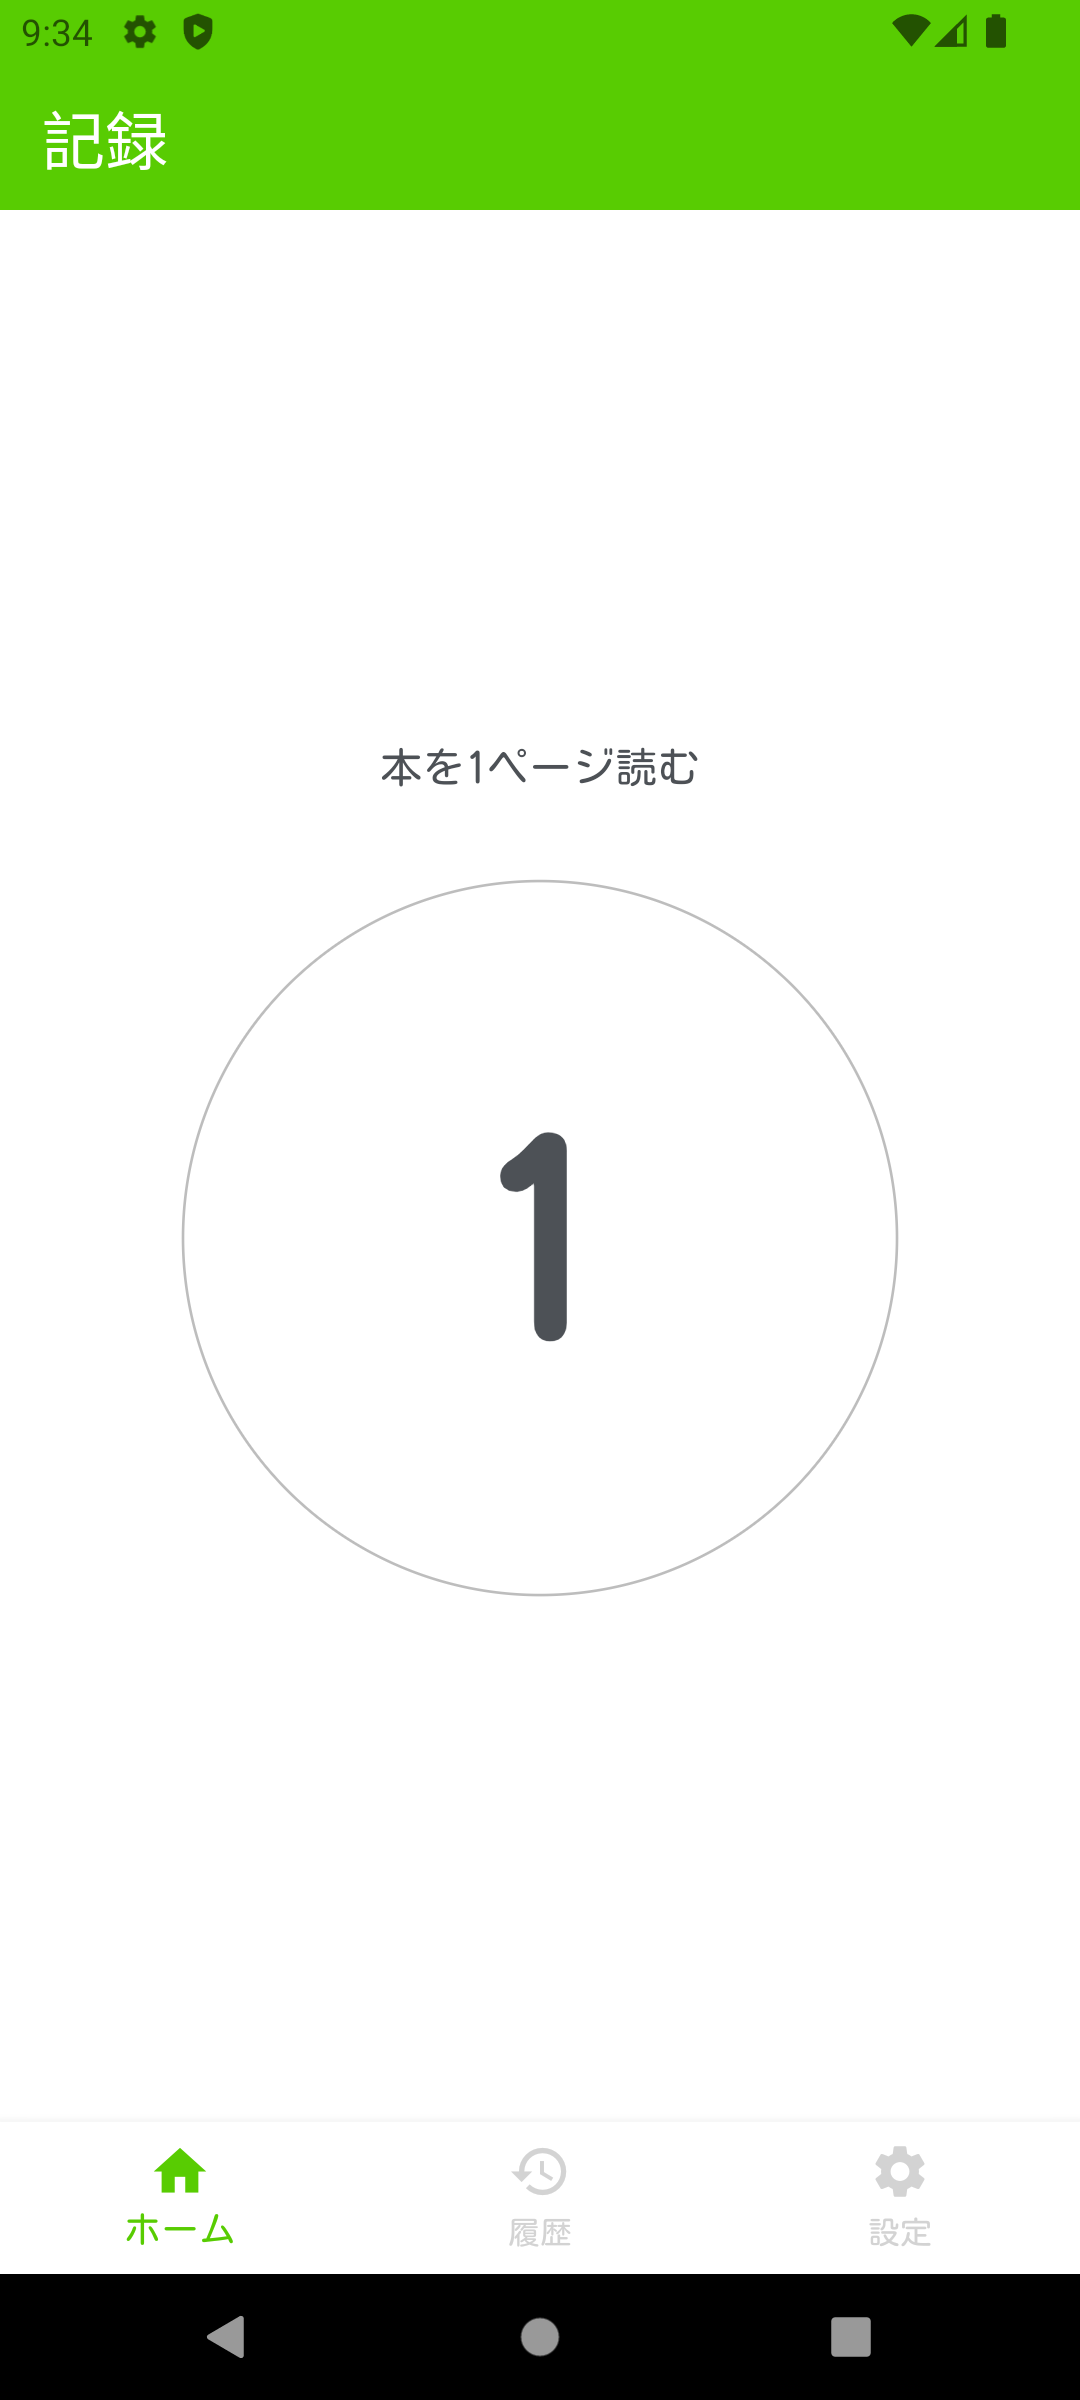
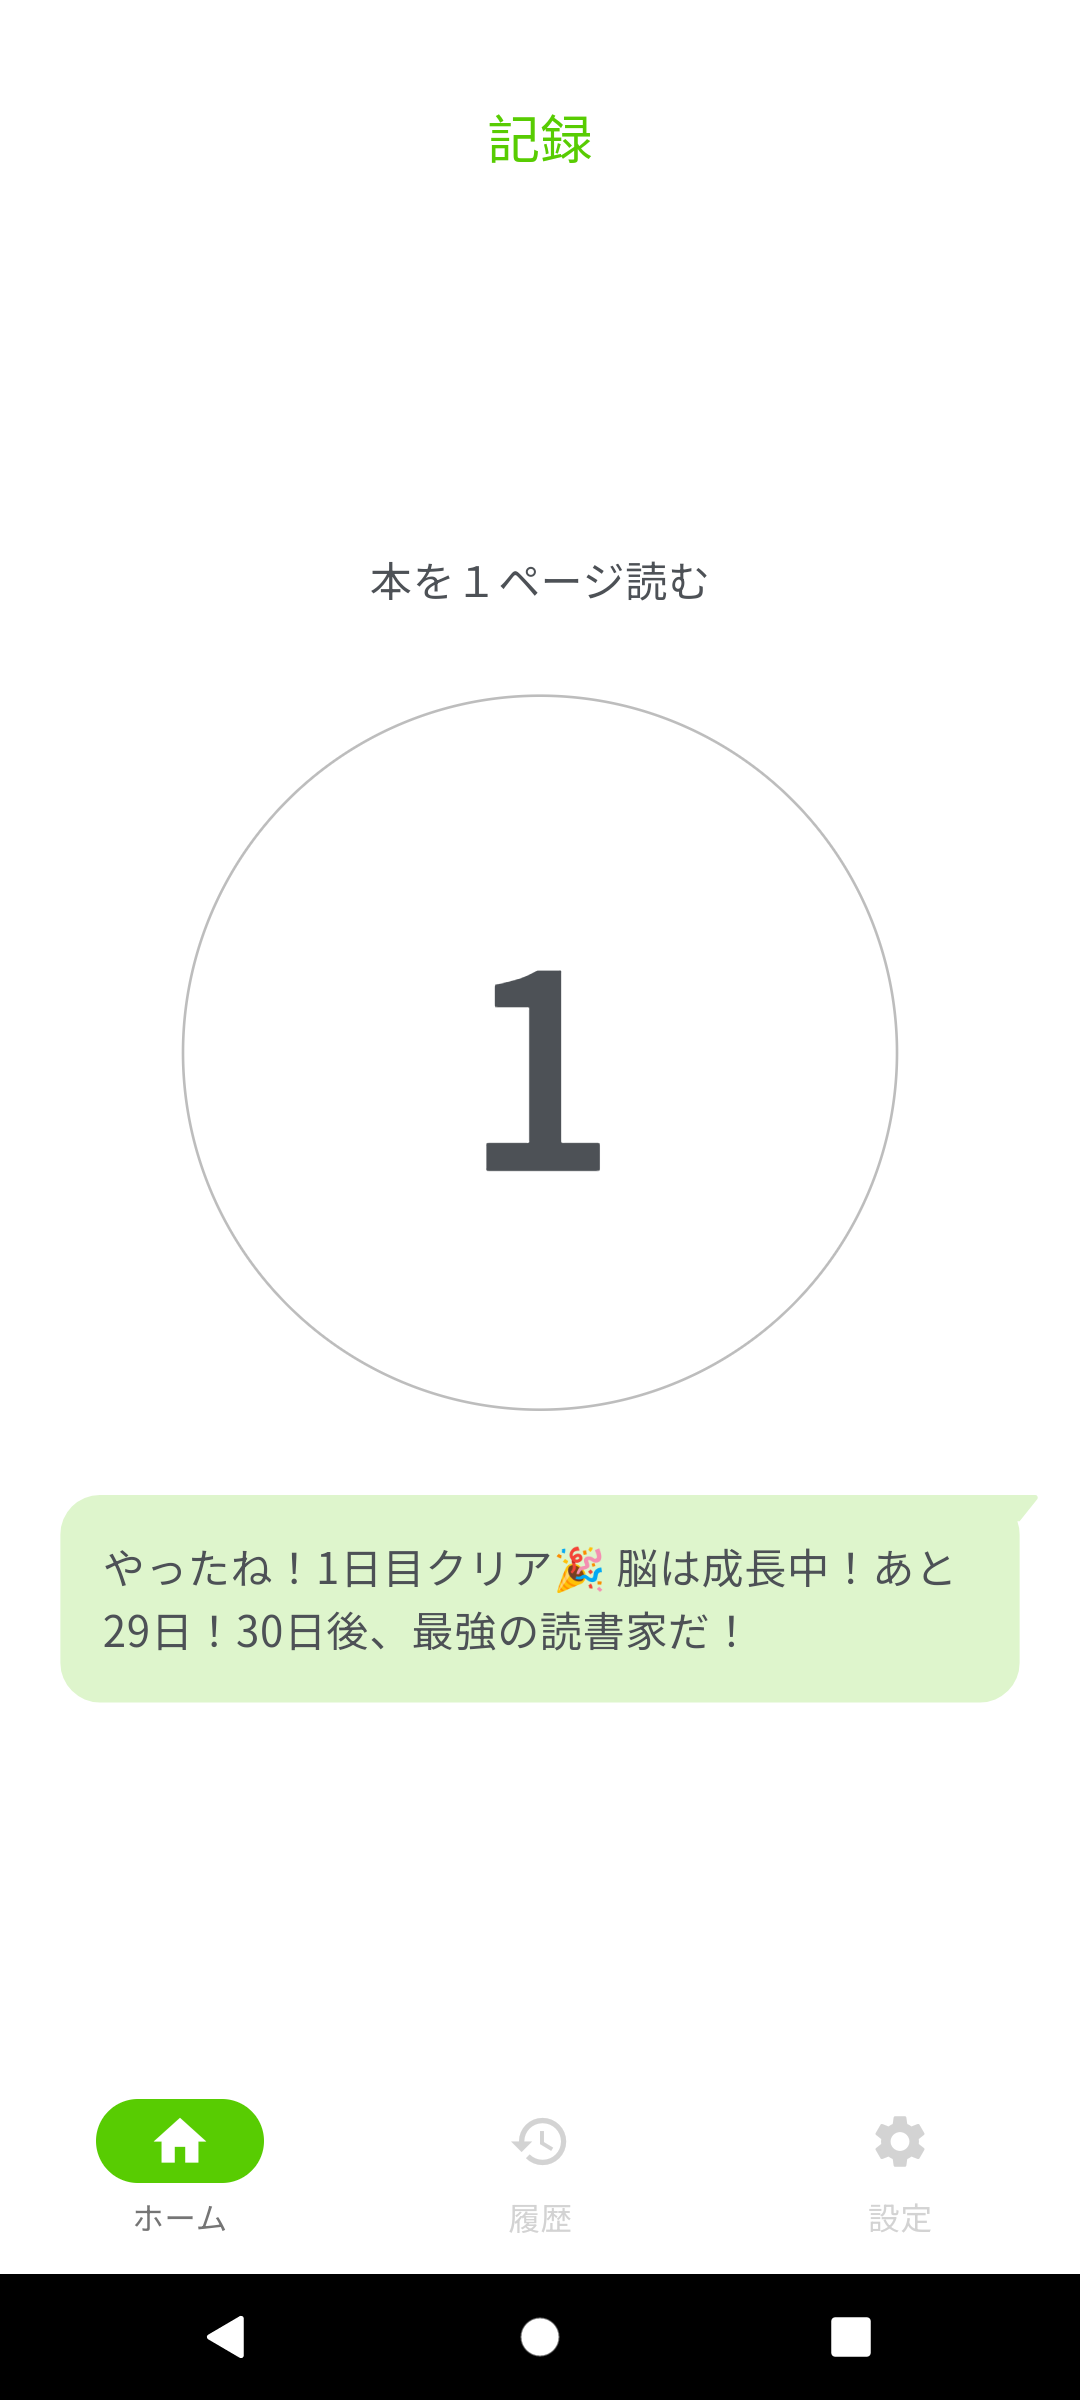
androidのhomeWidgetに目標を表示

diff --git a/android/app/src/main/kotlin/com/example/habit_app/MainActivity.kt b/android/app/src/main/kotlin/com/example/habit_app/MainActivity.kt
@@ -40,6 +40,7 @@ class HomeWidgetGlanceAppWidget : GlanceAppWidget(){
 @Composable
 private fun GlanceContent(context: Context, currentState: HomeWidgetGlanceState) {
     val streak = currentState.preferences.getInt("currentState", 0) // デフォルト値は 0
+    val habitTitle = currentState.preferences.getString("habitTitle", "継続") ?: "継続"
 
     Column(
         modifier = GlanceModifier.run {
@@ -52,7 +53,7 @@ private fun GlanceContent(context: Context, currentState: HomeWidgetGlanceState)
     ) {
         // "継続"のテキスト
         Text(
-            text = "継続",
+            text = habitTitle,
             style = TextStyle(
                 color = ColorProvider(Color.Green),  // テキストカラーを緑に設定
                 fontSize = 14.sp                   // フォントサイズ14sp

diff --git a/lib/screens/parts/update_button.dart b/lib/screens/parts/update_button.dart
@@ -33,7 +33,7 @@ class UpdateButton extends ConsumerWidget {
         habit.currentStreak != 0;
 
     try {
-      // iOSのWidgetデータ保存処理
+      // Widgetデータ保存処理
       Future.wait([
         HomeWidget.saveWidgetData<int>('currentState', habit.currentStreak),
         HomeWidget.saveWidgetData<String>('habitTitle', habit.title),

diff --git a/lib/utils/theme.dart b/lib/utils/theme.dart
@@ -85,6 +85,7 @@ class AppTheme {
     appBarTheme: const AppBarTheme(
       backgroundColor: Colors.transparent,
       elevation: 0,
+      centerTitle: true,
       titleTextStyle: TextStyle(color: AppColor.primary, fontSize: 20),
       iconTheme: IconThemeData(color: Colors.white),
     ),
